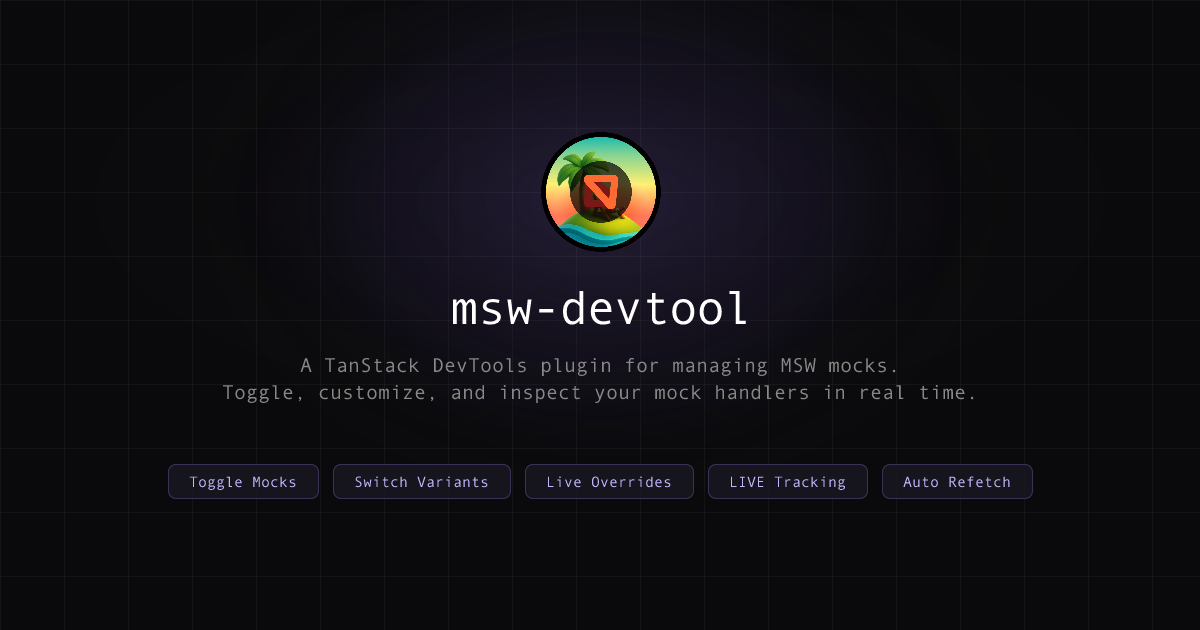
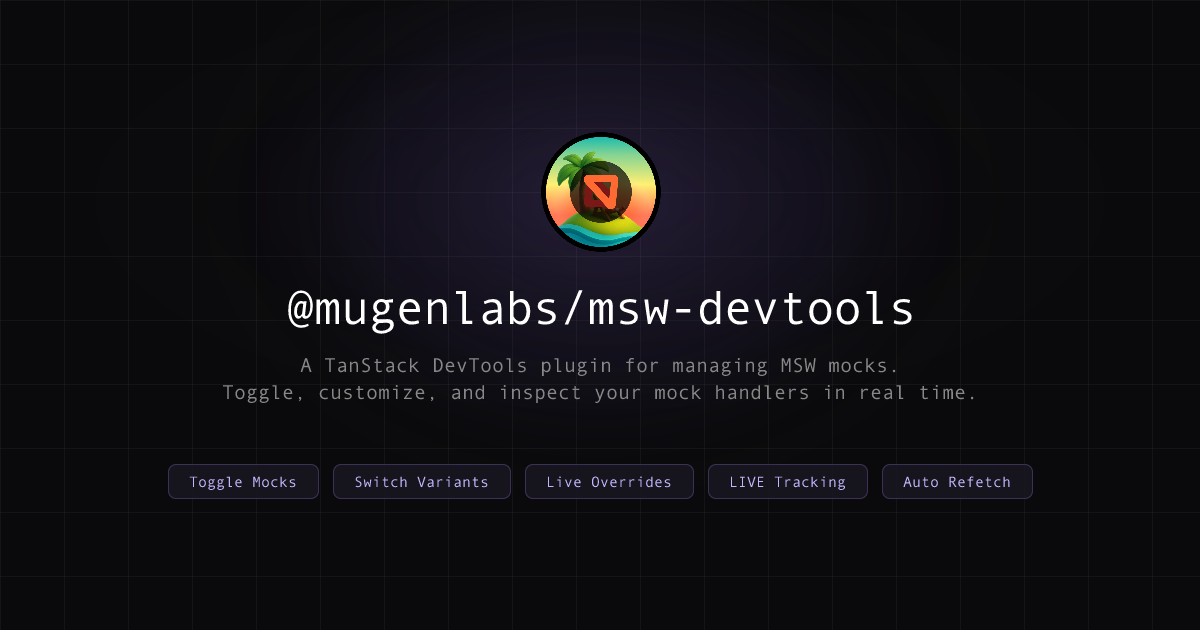
move package under org

Changed region(s): [[0.2158, 0.4524, 0.7708, 0.5429]]

diff --git a/apps/demo/src/docs/sections/adapter-section.tsx b/apps/demo/src/docs/sections/adapter-section.tsx
@@ -26,8 +26,8 @@ export const AdapterSection = () => (
     <div className="!mb-0">
       <CodeBlock lang="typescript">
         {`import { QueryClient } from "@tanstack/react-query";
-import { registerAdapter } from "msw-devtools-plugin";
-import { createTanStackQueryAdapter } from "msw-devtools-plugin/adapters/tanstack-query";
+import { registerAdapter } from "@mugenlabs/msw-devtools";
+import { createTanStackQueryAdapter } from "@mugenlabs/msw-devtools/adapters/tanstack-query";
 
 const queryClient = new QueryClient();
 registerAdapter(createTanStackQueryAdapter(queryClient));`}
@@ -58,8 +58,8 @@ registerAdapter(createTanStackQueryAdapter(queryClient));`}
     <div className="!mb-0">
       <CodeBlock lang="typescript">
         {`import { createClient, cacheExchange, fetchExchange } from "@urql/core";
-import { registerAdapter } from "msw-devtools-plugin";
-import { createUrqlAdapter, mockRefetchExchange } from "msw-devtools-plugin/adapters/urql";
+import { registerAdapter } from "@mugenlabs/msw-devtools";
+import { createUrqlAdapter, mockRefetchExchange } from "@mugenlabs/msw-devtools/adapters/urql";
 
 registerAdapter(createUrqlAdapter());
 
@@ -92,8 +92,8 @@ const client = createClient({
     <div className="!mb-0">
       <CodeBlock lang="typescript">
         {`import { ApolloClient, InMemoryCache } from "@apollo/client";
-import { registerAdapter } from "msw-devtools-plugin";
-import { createApolloAdapter } from "msw-devtools-plugin/adapters/apollo";
+import { registerAdapter } from "@mugenlabs/msw-devtools";
+import { createApolloAdapter } from "@mugenlabs/msw-devtools/adapters/apollo";
 
 const apolloClient = new ApolloClient({ uri: "/graphql", cache: new InMemoryCache() });
 registerAdapter(createApolloAdapter(apolloClient));`}
@@ -123,8 +123,8 @@ registerAdapter(createApolloAdapter(apolloClient));`}
       <CodeBlock lang="typescript">
         {`import { configureStore } from "@reduxjs/toolkit";
 import { createApi, fetchBaseQuery } from "@reduxjs/toolkit/query/react";
-import { registerAdapter } from "msw-devtools-plugin";
-import { createRtkQueryAdapter } from "msw-devtools-plugin/adapters/rtk-query";
+import { registerAdapter } from "@mugenlabs/msw-devtools";
+import { createRtkQueryAdapter } from "@mugenlabs/msw-devtools/adapters/rtk-query";
 
 const pokemonApi = createApi({
   baseQuery: fetchBaseQuery(),
@@ -165,8 +165,8 @@ registerAdapter(createRtkQueryAdapter(store, pokemonApi));`}
     <div className="!mb-0">
       <CodeBlock lang="tsx">
         {`import { useSWRConfig } from "swr";
-import { registerAdapter } from "msw-devtools-plugin";
-import { createSwrAdapter } from "msw-devtools-plugin/adapters/swr";
+import { registerAdapter } from "@mugenlabs/msw-devtools";
+import { createSwrAdapter } from "@mugenlabs/msw-devtools/adapters/swr";
 
 function SetupAdapter() {
   const { mutate } = useSWRConfig();
@@ -202,8 +202,8 @@ function SetupAdapter() {
       <p className="m-0 text-[13px] text-text-secondary leading-relaxed">
         <strong>Consider using a server-state library instead.</strong> Libraries like TanStack
         Query, RTK Query, SWR, or Apollo provide built-in caching, deduplication, and automatic
-        refetching — making the integration with msw-devtool seamless and zero-config. The
-        Axios/fetch adapter requires manual <code className={inlineCode}>useMockRefetch</code>{" "}
+        refetching — making the integration with @mugenlabs/msw-devtools seamless and zero-config.
+        The Axios/fetch adapter requires manual <code className={inlineCode}>useMockRefetch</code>{" "}
         wiring in every component, which adds boilerplate and is harder to maintain.
       </p>
     </div>
@@ -214,9 +214,9 @@ function SetupAdapter() {
     </p>
     <div className="!mb-0">
       <CodeBlock lang="tsx">
-        {`import { registerAdapter } from "msw-devtools-plugin";
-import { createAxiosAdapter } from "msw-devtools-plugin/adapters/axios";
-import { useMockRefetch } from "msw-devtools-plugin";
+        {`import { registerAdapter } from "@mugenlabs/msw-devtools";
+import { createAxiosAdapter } from "@mugenlabs/msw-devtools/adapters/axios";
+import { useMockRefetch } from "@mugenlabs/msw-devtools";
 
 registerAdapter(createAxiosAdapter());
 

diff --git a/apps/demo/src/docs/sections/quick-start-section.tsx b/apps/demo/src/docs/sections/quick-start-section.tsx
@@ -24,7 +24,7 @@ export const QuickStartSection = () => (
     <div className="mb-7">
       <CodeBlock lang="typescript">
         {`import { http, HttpResponse, graphql } from "msw";
-import { registerRestMocks, registerGraphqlMocks } from "msw-devtools-plugin";
+import { registerRestMocks, registerGraphqlMocks } from "@mugenlabs/msw-devtools";
 
 // REST — pass your HttpHandler directly
 registerRestMocks(
@@ -61,7 +61,7 @@ registerGraphqlMocks(
       <CodeBlock lang="tsx">
         {`// App.tsx
 import { TanStackDevtools } from "@tanstack/react-devtools";
-import { createMswDevToolsPlugin } from "msw-devtools-plugin";
+import { createMswDevToolsPlugin } from "@mugenlabs/msw-devtools";
 import "./mocks/setup"; // your registration calls
 
 function App() {
@@ -88,12 +88,12 @@ function App() {
     </p>
     <div className="!mb-0">
       <CodeBlock lang="typescript">
-        {`import { registerAdapter } from "msw-devtools-plugin";
-import { createTanStackQueryAdapter } from "msw-devtools-plugin/adapters/tanstack-query";
-import { createRtkQueryAdapter } from "msw-devtools-plugin/adapters/rtk-query";
-import { createUrqlAdapter } from "msw-devtools-plugin/adapters/urql";
-import { createApolloAdapter } from "msw-devtools-plugin/adapters/apollo";
-import { createAxiosAdapter } from "msw-devtools-plugin/adapters/axios";
+        {`import { registerAdapter } from "@mugenlabs/msw-devtools";
+import { createTanStackQueryAdapter } from "@mugenlabs/msw-devtools/adapters/tanstack-query";
+import { createRtkQueryAdapter } from "@mugenlabs/msw-devtools/adapters/rtk-query";
+import { createUrqlAdapter } from "@mugenlabs/msw-devtools/adapters/urql";
+import { createApolloAdapter } from "@mugenlabs/msw-devtools/adapters/apollo";
+import { createAxiosAdapter } from "@mugenlabs/msw-devtools/adapters/axios";
 
 // Pick the adapters matching your stack:
 registerAdapter(createTanStackQueryAdapter(queryClient));

diff --git a/apps/demo/src/routes/__root.tsx b/apps/demo/src/routes/__root.tsx
@@ -10,7 +10,7 @@ const SITE_DESCRIPTION =
 const RootComponent = () => (
   <html lang="en">
     <head>
-      <title>msw-devtool</title>
+      <title>@mugenlabs/msw-devtools</title>
       <HeadContent />
       <style
         // biome-ignore lint/security/noDangerouslySetInnerHtml: inline critical styles
@@ -51,7 +51,7 @@ const RootComponent = () => (
             applicationCategory: "DeveloperApplication",
             description: SITE_DESCRIPTION,
             license: "https://opensource.org/licenses/MIT",
-            name: "msw-devtools-plugin",
+            name: "@mugenlabs/msw-devtools",
             offers: { "@type": "Offer", price: "0" },
             operatingSystem: "Web",
             url: SITE_URL,
@@ -88,17 +88,17 @@ export const Route = createRootRoute({
       { content: SITE_DESCRIPTION, name: "description" },
       { content: "#0a0a0a", name: "theme-color" },
       // Open Graph
-      { content: "msw-devtools-plugin", property: "og:title" },
+      { content: "@mugenlabs/msw-devtools", property: "og:title" },
       { content: SITE_DESCRIPTION, property: "og:description" },
       { content: `${SITE_URL}og-image.png`, property: "og:image" },
       { content: "website", property: "og:type" },
       { content: SITE_URL, property: "og:url" },
       // Twitter Card
       { content: "summary_large_image", name: "twitter:card" },
-      { content: "msw-devtools-plugin", name: "twitter:title" },
+      { content: "@mugenlabs/msw-devtools", name: "twitter:title" },
       { content: SITE_DESCRIPTION, name: "twitter:description" },
       { content: `${SITE_URL}og-image.png`, name: "twitter:image" },
     ],
-    title: "msw-devtools-plugin",
+    title: "@mugenlabs/msw-devtools",
   }),
 });

diff --git a/packages/core/src/adapter/event-bus.test.ts b/packages/core/src/adapter/event-bus.test.ts
@@ -14,13 +14,13 @@ describe("event-bus", () => {
   });
 
   it("exports the correct event name", () => {
-    expect(MOCK_UPDATE_EVENT_NAME).toBe("msw-devtool-mock-updated");
+    expect(MOCK_UPDATE_EVENT_NAME).toBe("msw-devtools-mock-updated");
   });
 
   describe("dispatching mock updates", () => {
     it("dispatches a CustomEvent on window", () => {
       const handler = vi.fn();
-      window.addEventListener("msw-devtool-mock-updated", handler);
+      window.addEventListener("msw-devtools-mock-updated", handler);
 
       dispatchMockUpdateFn("GetUser", "toggle");
 
@@ -31,19 +31,19 @@ describe("event-bus", () => {
         operationName: "GetUser",
       });
 
-      window.removeEventListener("msw-devtool-mock-updated", handler);
+      window.removeEventListener("msw-devtools-mock-updated", handler);
     });
 
     it("defaults changeType to 'toggle'", () => {
       const handler = vi.fn();
-      window.addEventListener("msw-devtool-mock-updated", handler);
+      window.addEventListener("msw-devtools-mock-updated", handler);
 
       dispatchMockUpdateFn("GetUser");
 
       const event = handler.mock.calls[0][0] as CustomEvent;
       expect(event.detail.changeType).toBe("toggle");
 
-      window.removeEventListener("msw-devtool-mock-updated", handler);
+      window.removeEventListener("msw-devtools-mock-updated", handler);
     });
   });
 

diff --git a/apps/demo/src/playground/query-page.tsx b/apps/demo/src/playground/query-page.tsx
@@ -215,7 +215,7 @@ const SnorlaxCard = () => {
 // ---------------------------------------------------------------------------
 
 const QUERY_CODE = `// 1. Register REST handlers — method + path auto-derived from handler
-import { registerRestMocks } from "msw-devtools-plugin";
+import { registerRestMocks } from "@mugenlabs/msw-devtools";
 import { http, HttpResponse } from "msw";
 
 registerRestMocks(
@@ -224,7 +224,7 @@ registerRestMocks(
 );
 
 // 2. Register GraphQL handlers — operationName auto-derived from handler
-import { registerGraphqlMocks } from "msw-devtools-plugin";
+import { registerGraphqlMocks } from "@mugenlabs/msw-devtools";
 import { graphql } from "msw";
 
 registerGraphqlMocks(
@@ -252,8 +252,8 @@ const { data } = useQuery({
 });
 
 // 4. Adapter — auto-invalidates queries when mocks change
-import { registerAdapter } from "msw-devtools-plugin";
-import { createTanStackQueryAdapter } from "msw-devtools-plugin/adapters/tanstack-query";
+import { registerAdapter } from "@mugenlabs/msw-devtools";
+import { createTanStackQueryAdapter } from "@mugenlabs/msw-devtools/adapters/tanstack-query";
 registerAdapter(createTanStackQueryAdapter(queryClient));`;
 
 // ---------------------------------------------------------------------------

diff --git a/e2e/helpers.ts b/e2e/helpers.ts
@@ -74,7 +74,7 @@ export const PAGE_OPERATIONS: Record<string, string[]> = {
 
 /**
  * Pre-enable all mocks via localStorage before the page loads.
- * The Zustand store persists under key "msw-devtool-store".
+ * The Zustand store persists under key "msw-devtools-store".
  * This ensures cards always show mock data instead of relying on real APIs.
  *
  * When `seedOnce` is true, localStorage is only set if not already present,
@@ -110,7 +110,7 @@ export const enableAllMocksViaStorage = async (page: Page, options?: { seedOnce?
 
   await page.addInitScript(
     ({ ops, onlyIfEmpty }) => {
-      if (onlyIfEmpty && localStorage.getItem("msw-devtool-store") !== null) {
+      if (onlyIfEmpty && localStorage.getItem("msw-devtools-store") !== null) {
         return;
       }
       const state = {
@@ -123,7 +123,7 @@ export const enableAllMocksViaStorage = async (page: Page, options?: { seedOnce?
         },
         version: 0,
       };
-      localStorage.setItem("msw-devtool-store", JSON.stringify(state));
+      localStorage.setItem("msw-devtools-store", JSON.stringify(state));
     },
     { onlyIfEmpty: seedOnce, ops: operations }
   );

diff --git a/apps/demo/src/playground-page.tsx b/apps/demo/src/playground-page.tsx
@@ -1,12 +1,12 @@
 import { ApolloProvider } from "@apollo/client";
+import { createMswDevToolsPlugin, registerAdapter } from "@mugenlabs/msw-devtools";
+import { createApolloAdapter } from "@mugenlabs/msw-devtools/adapters/apollo";
+import { createAxiosAdapter } from "@mugenlabs/msw-devtools/adapters/axios";
+import { createTanStackQueryAdapter } from "@mugenlabs/msw-devtools/adapters/tanstack-query";
+import { createUrqlAdapter } from "@mugenlabs/msw-devtools/adapters/urql";
 import { TanStackDevtools } from "@tanstack/react-devtools";
 import { QueryClient, QueryClientProvider } from "@tanstack/react-query";
 import { Outlet } from "@tanstack/react-router";
-import { createMswDevToolsPlugin, registerAdapter } from "msw-devtools-plugin";
-import { createApolloAdapter } from "msw-devtools-plugin/adapters/apollo";
-import { createAxiosAdapter } from "msw-devtools-plugin/adapters/axios";
-import { createTanStackQueryAdapter } from "msw-devtools-plugin/adapters/tanstack-query";
-import { createUrqlAdapter } from "msw-devtools-plugin/adapters/urql";
 import { SWRConfig } from "swr";
 import { Provider as UrqlProvider } from "urql";
 

diff --git a/apps/demo/src/docs/sections/features-section.tsx b/apps/demo/src/docs/sections/features-section.tsx
@@ -45,12 +45,12 @@ export const FeaturesSection = () => (
   <section className="px-6 py-20">
     <div className="mx-auto max-w-[720px]">
       <h2 className="mb-4 text-center font-extrabold text-[28px] text-text-primary tracking-tight transition-colors duration-300">
-        Why msw-devtool?
+        Why @mugenlabs/msw-devtools?
       </h2>
       <p className="mx-auto mb-12 max-w-[540px] text-center text-base text-text-muted leading-relaxed transition-colors duration-300">
         Tired of commenting out handlers, hard-coding error responses, and refreshing the page every
-        time you need a different mock? msw-devtool lets you toggle, swap, and override any MSW mock
-        on the fly — right from the browser, without touching your code.
+        time you need a different mock? @mugenlabs/msw-devtools lets you toggle, swap, and override
+        any MSW mock on the fly — right from the browser, without touching your code.
       </p>
 
       <div className="grid grid-cols-1 gap-4 sm:grid-cols-2">

diff --git a/apps/demo/src/playground/rtk-query-page.tsx b/apps/demo/src/playground/rtk-query-page.tsx
@@ -1,7 +1,7 @@
+import { registerAdapter } from "@mugenlabs/msw-devtools";
+import { createRtkQueryAdapter } from "@mugenlabs/msw-devtools/adapters/rtk-query";
 import { configureStore } from "@reduxjs/toolkit";
 import { createApi, fetchBaseQuery } from "@reduxjs/toolkit/query/react";
-import { registerAdapter } from "msw-devtools-plugin";
-import { createRtkQueryAdapter } from "msw-devtools-plugin/adapters/rtk-query";
 import { useCallback, useEffect } from "react";
 import { Provider } from "react-redux";
 
@@ -238,8 +238,8 @@ const store = configureStore({
 });
 
 // 2. Register the adapter — pass the store and the API instance
-import { registerAdapter } from "msw-devtools-plugin";
-import { createRtkQueryAdapter } from "msw-devtools-plugin/adapters/rtk-query";
+import { registerAdapter } from "@mugenlabs/msw-devtools";
+import { createRtkQueryAdapter } from "@mugenlabs/msw-devtools/adapters/rtk-query";
 
 registerAdapter(createRtkQueryAdapter(store, pokemonApi));
 

diff --git a/apps/demo/src/playground/swr-page.tsx b/apps/demo/src/playground/swr-page.tsx
@@ -176,7 +176,7 @@ const TogekissCard = () => {
 // --- Code snippet ---
 
 const SWR_CODE = `// 1. Register REST + GraphQL handlers
-import { registerRestMocks, registerGraphqlMocks } from "msw-devtools-plugin";
+import { registerRestMocks, registerGraphqlMocks } from "@mugenlabs/msw-devtools";
 import { http, graphql, HttpResponse } from "msw";
 
 registerRestMocks(
@@ -205,8 +205,8 @@ const { data } = useSWR("gql|GetGardevoir", async () => {
 // 3. Adapter — auto-revalidates when mocks change
 // Must be registered inside a component with access to useSWRConfig
 import { useSWRConfig } from "swr";
-import { registerAdapter } from "msw-devtools-plugin";
-import { createSwrAdapter } from "msw-devtools-plugin/adapters/swr";
+import { registerAdapter } from "@mugenlabs/msw-devtools";
+import { createSwrAdapter } from "@mugenlabs/msw-devtools/adapters/swr";
 
 function SetupSwr() {
   const { mutate } = useSWRConfig();

diff --git a/apps/demo/src/playground-shell.tsx b/apps/demo/src/playground-shell.tsx
@@ -52,11 +52,12 @@ export const PlaygroundPageShell = ({ children }: { children: ReactNode }) => {
       <style dangerouslySetInnerHTML={{ __html: skeletonKeyframes }} />
       <div className="mb-8 text-center">
         <h1 className="m-0 mb-2 font-bold text-[28px] text-text-primary transition-colors duration-300">
-          msw-devtool Playground
+          @mugenlabs/msw-devtools Playground
         </h1>
         <p className="m-0 mb-6 text-sm text-text-muted">
-          Each page demonstrates a different data-fetching library integrated with msw-devtool.
-          Toggle mocks in the DevTools panel below to see responses change in real-time.
+          Each page demonstrates a different data-fetching library integrated with
+          @mugenlabs/msw-devtools. Toggle mocks in the DevTools panel below to see responses change
+          in real-time.
         </p>
         <PlaygroundTabs />
       </div>

diff --git a/apps/demo/src/docs/sections/hero-section.tsx b/apps/demo/src/docs/sections/hero-section.tsx
@@ -66,7 +66,7 @@ export const HeroSection = () => {
       <div className="relative z-[2] mx-auto max-w-[720px]">
         <div className="mb-6 flex justify-center">
           <img
-            alt="msw-devtool logo"
+            alt="msw-devtools logo"
             className="h-24 w-24 rounded-[20px]"
             height={96}
             src={`${import.meta.env.BASE_URL}logo.png`}
@@ -74,7 +74,7 @@ export const HeroSection = () => {
           />
         </div>
         <h1 className="mt-0 mr-0 mb-4 ml-0 font-extrabold font-mono text-[40px] text-text-primary tracking-[-0.03em] transition-colors duration-300">
-          msw-devtool
+          @mugenlabs/msw-devtools
         </h1>
         <p className="mt-0 mr-0 mb-8 ml-0 text-lg text-text-muted leading-normal transition-colors duration-300">
           A TanStack DevTools plugin for managing MSW mocks.
